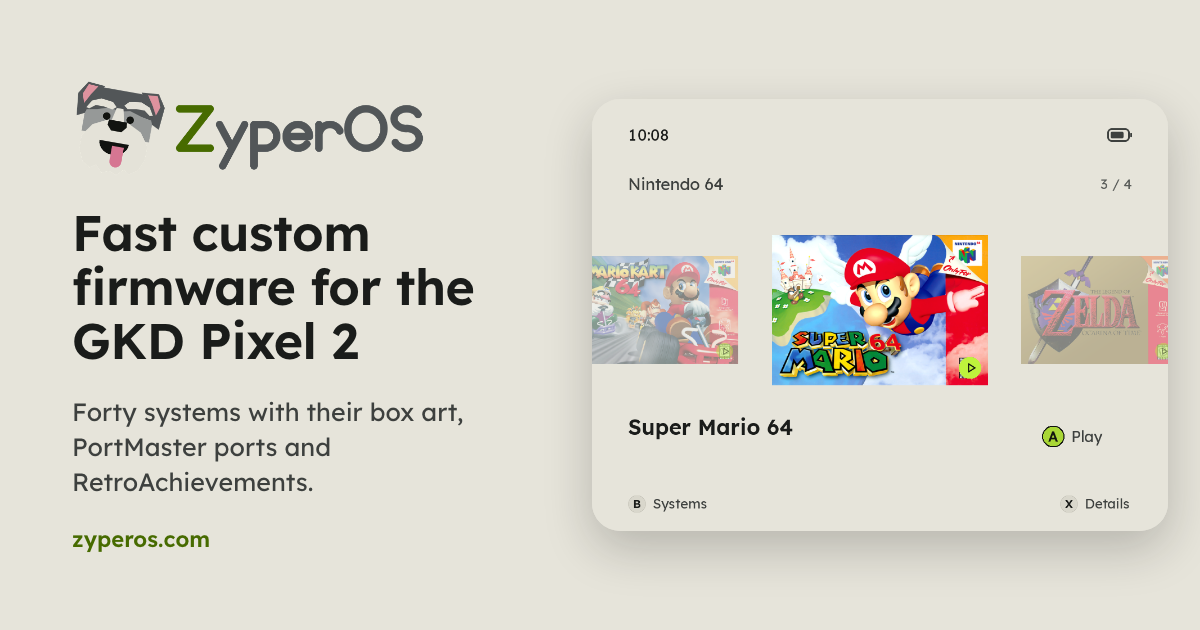
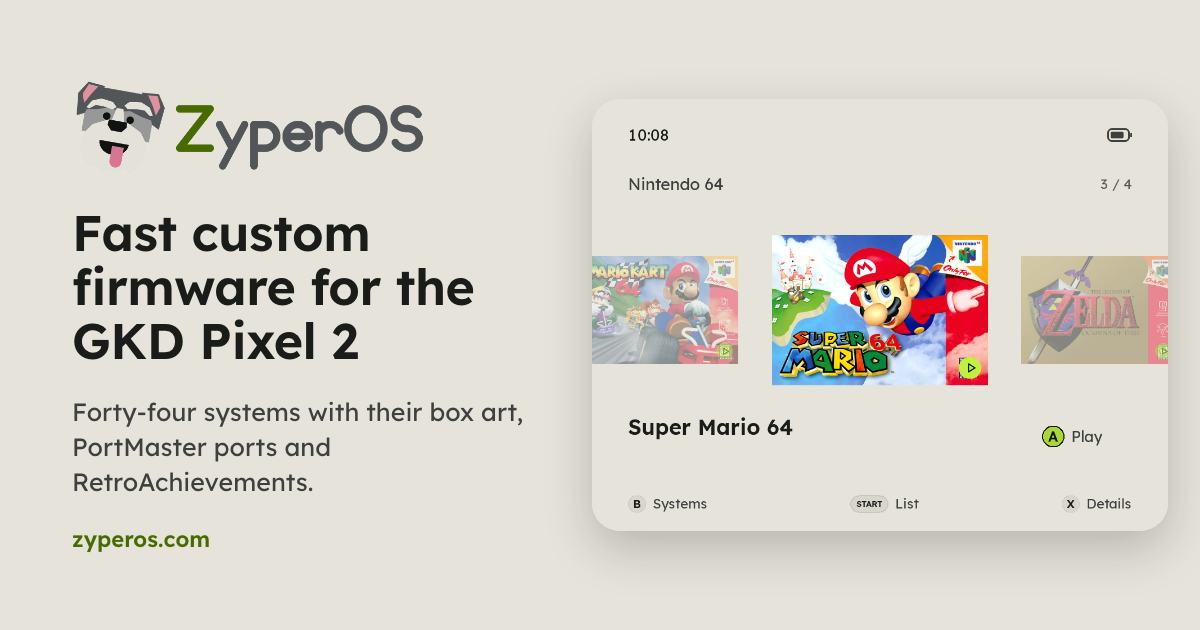
Site: 44 systems with box art, and the social card drawn again
The hero said 40 systems with box art; all 44 have a source for it now
(41 a libretro collection, PICO-8 ScreenScraper, J2ME and OpenBOR
SteamGridDB). The social card said Forty systems too: site-og.html says
Forty-four, and tools/site-art.sh drew og.png again over the current
Nintendo 64 shelf. The favicons it draws came out the same.

Changed region(s): [[0.1233, 0.6333, 0.4317, 0.6937], [0.8942, 0.7841, 0.9558, 0.8143], [0.7092, 0.7841, 0.7708, 0.8143]]

diff --git a/tools/site-og.html b/tools/site-og.html
@@ -31,7 +31,7 @@
   <div class="text">
     <img class="lockup" src="../res/readme/lockup-light.png" alt="">
     <h1>Fast custom firmware for the GKD Pixel 2</h1>
-    <p>Forty systems with their box art, PortMaster ports and RetroAchievements.</p>
+    <p>Forty-four systems with their box art, PortMaster ports and RetroAchievements.</p>
     <span class="url">zyperos.com</span>
   </div>
   <div class="shot"><img src="../res/readme/shelf-n64.png" alt=""></div>

diff --git a/site/index.html b/site/index.html
@@ -323,7 +323,7 @@
   </div>
   <ul class="proof" aria-label="ZyperOS at a glance">
     <li><b>2 s</b> on, stock 30 to 40 s<sup>*</sup></li>
-    <li><b>40</b> systems with box art</li>
+    <li><b>44</b> systems with box art</li>
     <li><b>8</b> languages</li>
     <li><b>Free</b>, GPL-3.0</li>
     <li class="note"><sup>*</sup> My own test on my Pixel 2</li>
